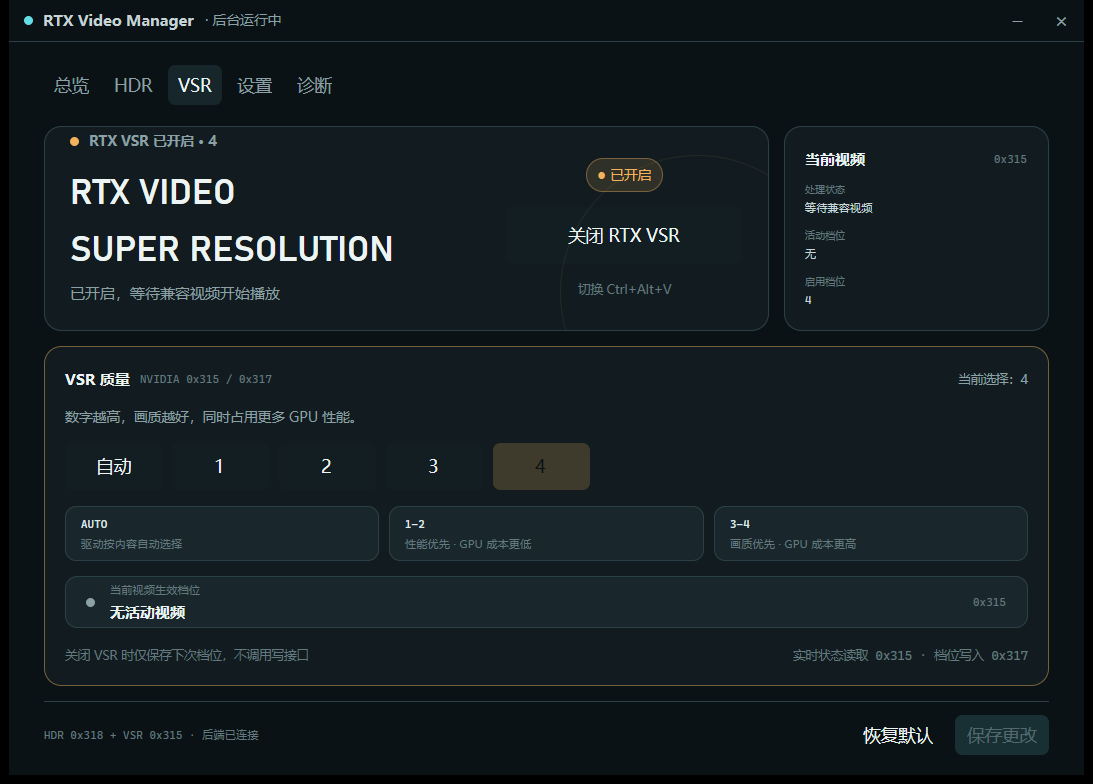
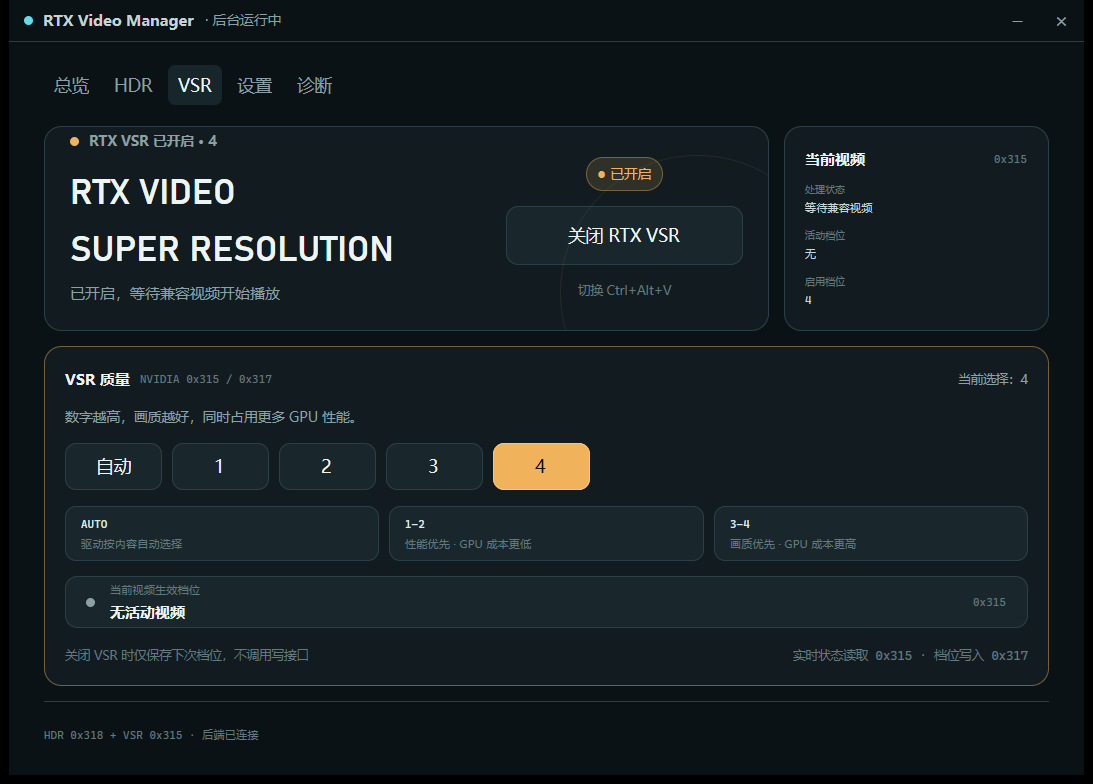
[skip ci] Record control surface verification

diff --git a/docs/TODO.md b/docs/TODO.md
@@ -47,13 +47,13 @@
   confirmed that both cards fit, the HDR spectrum and VSR ladder are visible, the
   summary rail is not clipped, and the footer remains fixed. The checked-in preview is
   `prototype/gpui-overview-125.png`.
-- GitHub Actions run `40478412127` is green for commit `d805371`; strict formatting,
+- GitHub Actions run `40501367153` is green for commit `ad0055d`; strict formatting,
   Clippy, all tests, both Release builds, packaging, and upload passed.
 - Final artifact ZIP SHA-256 is
[4 lines of base64/hex data omitted]
   (656,384 bytes); console SHA-256 is
[2 lines of base64/hex data omitted]
   (17,798,144 bytes).
 - Off-screen 125% captures of the final artifact confirmed: the VSR title is split as
   `RTX VIDEO` / `SUPER RESOLUTION`; overview legends align; HDR labels show the
@@ -64,14 +64,17 @@
   rounded endpoints without a dark one-pixel seam. Checked-in previews are
   `prototype/gpui-overview-125.png`, `prototype/gpui-hdr-125.png`, and
   `prototype/gpui-vsr-125.png`.
+- Off-screen 125% verification of run `40501367153` confirmed that enabled close actions
+  use the visible raised surface and rule border, the selected VSR quality is a solid
+  amber surface, and reset/save footer actions appear on settings only. Overview, HDR,
+  VSR, and diagnostics retain status and reconnect affordances without settings commands.
 - Real-machine testing initially appeared to lack the VSR overlay because the running
   `RtxVideoManager.exe` process was still the pre-replacement image at the installed
-  path. Restarting the same installed `40478412127` build loaded the updated host and
-  the user confirmed the VSR toggle overlay was visible. The installed background host
-  is now running from `D:\Applications\RtxVideoManager-win-x64\RtxVideoManager.exe`,
-  and the preserved startup value points to that path.
-- The temporary verification host updated the preserved `RtxHdrSwitch` startup value;
-  it was restored to the pre-test installed executable path after capture.
+  path. Restarting loaded the updated host and the user confirmed the VSR toggle overlay
+  was visible. The verified `40501367153` binaries have now replaced the installed files;
+  the background host is running from
+  `D:\Applications\RtxVideoManager-win-x64\RtxVideoManager.exe`, and the preserved
+  startup value points to that path.
 - The new host idled at 5.50 MiB private memory. The off-screen GPUI console used
   approximately 133 MiB, above the 120 MiB target; reducing it is a follow-up
   optimization rather than a blocker for visual acceptance.
